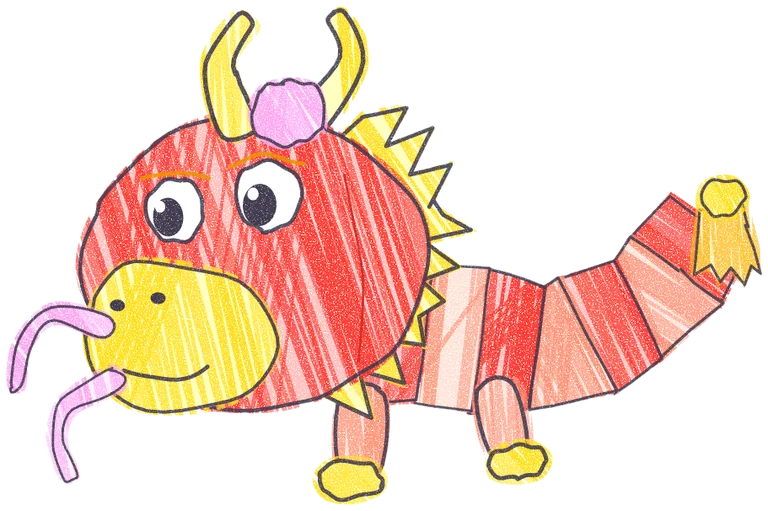
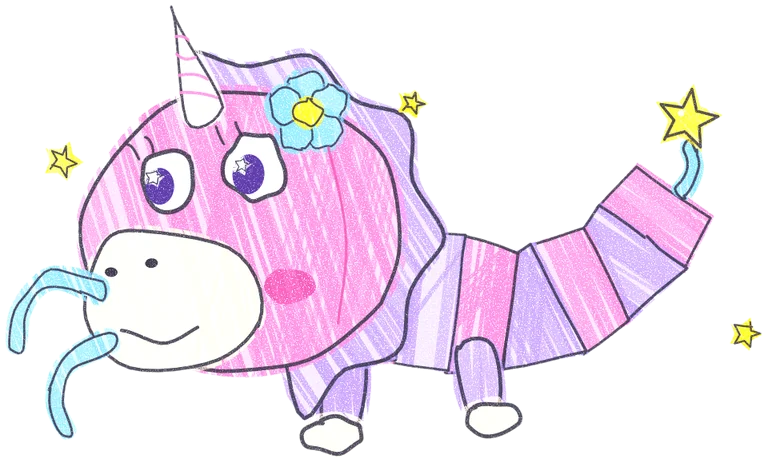
Make the paper dragon a fairy
The owner found the red-and-gold parade dragon not fairy at all, then
butterfly wings too close to the fairy legendary. Its three stages are
now pastel tissue paper with a striped unicorn horn, paper flowers,
stars and a star charm for a tail tip; the final form has a pleated
fan and a crown of flowers.

diff --git a/tools/redraws/festivouivre.ts b/tools/redraws/festivouivre.ts
@@ -1,81 +1,81 @@
 import type { Crayon, P, Redraw } from './crayon.ts';
-import { accordion, tassel } from './plissou.ts';
+import { star } from './lumignon.ts';
+import { accordion, charm, flower, horn } from './plissou.ts';
 
 /** A pleated paper fan opening from (x, y), from angle a0 to a1 (degrees), its folds in turn of colour. */
 function fan(c: Crayon, x: number, y: number, r: number, a0: number, a1: number, cols: string[]) {
-  const n = 7;
+  const n = 9;
   for (let k = 0; k < n; k++) {
     const a = ((a0 + ((a1 - a0) * k) / n) * Math.PI) / 180, b = ((a0 + ((a1 - a0) * (k + 1)) / n) * Math.PI) / 180;
-    const rr = r * (k % 2 ? 0.94 : 1);
+    const rr = r * (k % 2 ? 0.93 : 1);
     c.shape([[x, y], [x + Math.cos(a) * rr, y + Math.sin(a) * rr], [x + Math.cos(b) * rr, y + Math.sin(b) * rr]], cols[k % cols.length], { over: 0 }, { w: 3 }, false);
   }
 }
 
 /**
- * Plisserpent grown into a great parade dragon turned to the left: a long, thick accordion body coiling up, gold
- * scales drawn on its red folds and pompoms all along, four legs with gold claws, a big head with branching gold
- * horns, pleated paper fans opening like frills behind its cheeks, a gold beard, long ribbons streaming, and the
- * dragon's rainbow pearl held in a front claw.
+ * Plisserpent grown into a great fairy parade dragon turned to the left: a long, thick accordion body dancing in
+ * a wave, rainbow pastel folds with sparkles and paper flowers all along, a pleated paper fan opening behind its
+ * head, four legs with cream claws, a big unicorn horn in a crown of flowers, a cream beard, long ribbons streaming,
+ * and the dragon's rainbow pearl held in a front claw.
  */
 export default {
   id: '086', slug: 'festivouivre', seed: 8601, size: [1300, 1150], tilt: -2,
   draw(c) {
     const { shape, stroke, dot, band, potato, spikes } = c;
-    const RED = '#d8352e', GOLD = '#f2c43a', PINK = '#f29ac8', BLUE = '#6fb6ee', GREEN = '#7fcf86', VIOLET = '#b38ae0', DARK = '#9a2a24';
-    const POMS = [PINK, BLUE, GREEN, VIOLET];
+    const PINK = '#f28dc0', LILAC = '#b99be8', SKY = '#8fcdf2', MINT = '#94dcaa', BUTTER = '#f9dc6a', CREAM = '#fff0d2';
+    const STAR = '#f7dc35', DEEP = '#d0619d', LEG = '#a385dc';
     // ribbons streaming behind, from the back of its head
-    shape(band([[560, 260], [680, 160], [820, 180], [940, 90], [1060, 110]], 28, 14), BLUE, { over: 0 }, { w: 3 });
-    shape(band([[560, 320], [700, 250], [840, 290], [980, 230]], 28, 14), PINK, { over: 0 }, { w: 3 });
+    shape(band([[560, 300], [700, 250], [840, 290], [960, 210], [1080, 230]], 28, 14), MINT, { over: 0 }, { w: 3 });
     // the far legs, behind
-    shape(band([[1050, 640], [1030, 820]], 60, 52), DARK, { angle: 90, over: 0 });
-    shape(band([[560, 660], [540, 840]], 60, 52), DARK, { angle: 90, over: 0 });
-    // the long thick body coiling up, tail first: gold scales on the red folds, pompoms along its back
+    shape(band([[1050, 640], [1030, 820]], 60, 52), LEG, { angle: 90, over: 0 });
+    shape(band([[560, 660], [540, 840]], 60, 52), LEG, { angle: 90, over: 0 });
+    // the long thick body dancing in a wave, tail first: rainbow folds, sparkles and stars along it
     const body: P[] = [[1240, 170], [1200, 420], [1090, 600], [960, 560], [860, 400], [740, 380], [640, 500], [540, 600], [460, 520], [440, 420]];
-    accordion(c, body, 17, 120, 220, [RED, GOLD], (k, [x, y], w) => {
-      if (k % 2 === 0) for (const dy of [-w / 5, w / 6]) stroke([[x - 20, y + dy], [x - 6, y + dy + 14], [x + 10, y + dy], [x + 24, y + dy + 14]], { w: 3, col: '#f7dc35' });
-      if (k % 3 === 2) shape(potato(x + 8, y - w / 2 - 8, 28, 25, 9, 0.14), POMS[((k / 3) | 0) % POMS.length], { over: 0 }, { w: 3 });
+    accordion(c, body, 17, 120, 220, [PINK, BUTTER, MINT, SKY, LILAC], (k, [x, y], w) => {
+      if (k % 2 === 0) shape(star(x, y, 12, k * 0.4), '#ffffff', { over: 0, wash: 1 }, { w: 2 }, false);
+      if (k % 3 === 2) flower(c, x + 8, y - w / 2 - 8, 40, [PINK, SKY, MINT, BUTTER][((k / 3) | 0) % 4], k % 2 ? STAR : '#ffffff');
     });
-    tassel(c, 1248, 140, 1.4, GOLD, '#f7a12b');
-    // the near legs, gold claws
+    charm(c, 1240, 170, 1.4, STAR, PINK);
+    // the near legs, cream claws
     for (const [x0, y0, x1, y1] of [[1100, 640, 1120, 860], [610, 640, 620, 870]] as const) {
-      shape(band([[x0, y0], [x1, y1]], 70, 62), RED, { angle: 90, over: 0 });
-      for (const dx of [-30, 0, 30]) shape(band([[x1 + dx, y1 + 10], [x1 + dx - 14, y1 + 46]], 18, 8), GOLD, { over: 0 }, { w: 3 });
+      shape(band([[x0, y0], [x1, y1]], 70, 62), LILAC, { angle: 90, over: 0 });
+      for (const dx of [-30, 0, 30]) shape(band([[x1 + dx, y1 + 10], [x1 + dx - 14, y1 + 46]], 18, 8), CREAM, { over: 0 }, { w: 3 });
     }
-    // the fans opening behind its cheek, and the gold mane
-    shape(spikes([[430, 560], [560, 470], [580, 300], [480, 160]], 3, 50).concat([[380, 300]]), GOLD, { angle: 60, over: 0 }, {}, false);
-    fan(c, 440, 330, 290, -95, 55, [PINK, BLUE, GREEN, VIOLET, '#f7dc35']);
-    // the far horn, branching
-    shape(band([[400, 160], [450, 70], [430, 10]], 36, 18), GOLD, { angle: 90, over: 0 });
-    shape(band([[440, 90], [510, 60]], 22, 14), GOLD, { over: 0 });
+    // a pleated paper fan opening behind its head like a frill, then the scalloped mane
+    fan(c, 400, 330, 330, -115, 35, [PINK, SKY, BUTTER, MINT, LILAC]);
+    const mane: P[] = [];
+    for (let k = 0; k <= 12; k++) { const a = -1.9 + k * 0.28, r = k % 2 ? 205 : 235; mane.push([320 + Math.cos(a) * r, 340 + Math.sin(a) * r]); }
+    shape([...mane, [320, 340]], LILAC, { angle: 60, over: 0 });
     // the far front leg holding up the rainbow pearl
-    shape(band([[460, 600], [330, 640], [250, 600]], 66, 56), RED, { angle: 30, over: 0 });
+    shape(band([[460, 600], [330, 640], [250, 600]], 66, 56), LILAC, { angle: 30, over: 0 });
     shape(potato(200, 590, 70, 70, 12, 0.03), PINK, { angle: 60, over: 0 }, { w: 4 });
-    c.tint(potato(180, 570, 40, 36, 8, 0.1), BLUE, { gap: 3.2 });
-    c.tint(potato(225, 615, 32, 28, 8, 0.1), '#f7dc35', { gap: 3.2 });
+    c.tint(potato(180, 570, 40, 36, 8, 0.1), SKY, { gap: 3.2 });
+    c.tint(potato(225, 615, 32, 28, 8, 0.1), BUTTER, { gap: 3.2 });
     dot(175, 560, 10, 12, '#ffffff');
-    for (const dx of [-36, -6, 24]) shape(band([[250 + dx, 640], [240 + dx, 670]], 18, 8), GOLD, { over: 0 }, { w: 3 });
-    // the big head: long snout, gold muzzle, a gold beard
-    shape([[90, 330], [150, 230], [290, 170], [440, 180], [520, 270], [510, 400], [420, 460], [270, 480], [130, 450], [70, 390]], RED, { angle: 75, over: 0.55, press: 1.05 });
-    shape(spikes([[300, 470], [210, 480], [130, 460]], 3, 50).concat([[220, 440]]), GOLD, { angle: 90, over: 0 }, {}, false);
-    shape([[60, 350], [130, 300], [290, 330], [320, 410], [250, 470], [120, 460], [60, 410]], GOLD, { angle: 80, over: 0.2 }, { w: 4 });
-    dot(90, 350, 10, 8);
-    dot(138, 336, 10, 8);
+    for (const dx of [-36, -6, 24]) shape(band([[250 + dx, 640], [240 + dx, 670]], 18, 8), CREAM, { over: 0 }, { w: 3 });
+    // the big head: long snout, cream muzzle and a soft cream beard, a rosy cheek
+    shape([[90, 330], [150, 230], [290, 170], [440, 180], [520, 270], [510, 400], [420, 460], [270, 480], [130, 450], [70, 390]], PINK, { angle: 75, over: 0.55, press: 1.05 });
+    shape(spikes([[300, 470], [210, 480], [130, 460]], 3, 50).concat([[220, 440]]), CREAM, { angle: 90, over: 0 }, {}, false);
+    shape([[60, 350], [130, 300], [290, 330], [320, 410], [250, 470], [120, 460], [60, 410]], CREAM, { angle: 80, over: 0.2 }, { w: 4 });
+    c.tint(potato(420, 400, 36, 24, 8, 0.1), DEEP, { gap: 3 });
+    dot(90, 350, 9, 7);
+    dot(138, 336, 9, 7);
     stroke([[100, 420], [170, 438], [240, 420], [270, 400]], { w: 5 });
-    c.paper([[150, 432], [160, 455], [172, 434]], { w: 3 }, false);
-    // the near horn, branching like antlers
-    shape(band([[330, 190], [320, 90], [370, 20], [420, 10]], 44, 20), GOLD, { angle: 90, over: 0 });
-    shape(band([[322, 110], [250, 60], [230, 10]], 28, 14), GOLD, { over: 0 });
-    // fierce eyes under heavy gold brows
+    // a big unicorn horn, and a crown of paper flowers round it
+    horn(c, [250, 200], [215, 20], 66, '#fff6e6', PINK);
+    for (const [x, y, r, col] of [[320, 190, 50, SKY], [400, 200, 46, BUTTER], [470, 240, 42, MINT], [180, 215, 40, LILAC]] as const) flower(c, x, y, r, col, STAR);
+    // starry eyes, lashes, sure of itself
     c.paper(potato(230, 270, 30, 26, 8, 0.05));
     c.paper(potato(345, 260, 34, 30, 8, 0.05));
-    dot(222, 276, 15, 16);
-    dot(337, 267, 17, 18);
-    dot(216, 268, 5, 5.5, '#ffffff');
-    dot(330, 258, 5.5, 6, '#ffffff');
-    shape(band([[185, 240], [240, 236], [285, 250]], 22, 12), GOLD, { over: 0 }, { w: 3 });
-    shape(band([[300, 228], [355, 218], [405, 236]], 24, 12), GOLD, { over: 0 }, { w: 3 });
+    dot(222, 276, 15, 16, '#5a3f8a');
+    dot(337, 267, 17, 18, '#5a3f8a');
+    shape(star(216, 268, 8, 0.3), '#ffffff', { over: 0, wash: 1 }, { w: 1.5 }, false);
+    shape(star(330, 258, 9, 0.3), '#ffffff', { over: 0, wash: 1 }, { w: 1.5 }, false);
+    for (const [x0, y0, x1, y1] of [[200, 250, 186, 232], [218, 245, 212, 226], [318, 236, 306, 216], [340, 231, 336, 210]] as const) stroke([[x0, y0], [x1, y1]], { w: 3.5 });
     // long whiskers, ribbons floating down
-    shape(band([[90, 400], [40, 460], [30, 560], [70, 640]], 24, 12), PINK, { over: 0 }, { w: 3 });
-    stroke([[480, 220], [500, 330], [480, 430]], { w: 3, col: DARK });
+    shape(band([[90, 400], [40, 460], [30, 560], [70, 640]], 24, 12), SKY, { over: 0 }, { w: 3 });
+    stroke([[480, 220], [500, 330], [480, 430]], { w: 3, col: DEEP });
+    // sparkles round it
+    for (const [x, y, r] of [[60, 200, 22], [140, 760, 18], [1180, 700, 20], [880, 120, 18]] as const) shape(star(x, y, r, 0.4), STAR, { over: 0 }, { w: 2.5 }, false);
   },
 } satisfies Redraw;

diff --git a/tools/redraws/plissou.ts b/tools/redraws/plissou.ts
@@ -1,4 +1,5 @@
 import type { Crayon, P, Redraw } from './crayon.ts';
+import { star } from './lumignon.ts';
 
 /** Stations evenly spaced along a polyline, with their normal. */
 function stations(path: P[], n: number): { p: P; nx: number; ny: number }[] {
@@ -35,56 +36,80 @@ export function accordion(c: Crayon, path: P[], n: number, w0: number, w1: numbe
   for (const f of after) f();
 }
 
-/** A tassel: a gold knot and a fringe of threads hanging from (x, y). */
-export function tassel(c: Crayon, x: number, y: number, s: number, col: string, thread: string) {
-  const fringe: P[] = [[x - 26 * s, y + 10 * s], [x - 40 * s, y + 90 * s], [x - 20 * s, y + 80 * s], [x - 10 * s, y + 100 * s], [x + 4 * s, y + 82 * s], [x + 20 * s, y + 102 * s], [x + 30 * s, y + 80 * s], [x + 42 * s, y + 92 * s], [x + 26 * s, y + 10 * s]];
-  c.shape(fringe, thread, { angle: 90, over: 0 }, { w: 3 }, false);
-  c.shape(c.potato(x, y, 26 * s, 22 * s, 8, 0.05), col, { over: 0 }, { w: 3.5 });
+/** A star charm hanging from a ribbon at the tip of the tail. */
+export function charm(c: Crayon, x: number, y: number, s: number, col: string, ribbon: string) {
+  c.shape(c.band([[x, y], [x + 18 * s, y - 30 * s], [x + 10 * s, y - 60 * s]], 14 * s, 10 * s), ribbon, { over: 0 }, { w: 3 });
+  c.shape(star(x + 12 * s, y - 92 * s, 40 * s, 0.25), col, { over: 0, press: 1.1 }, { w: 3.5 }, false);
+  c.dot(x + 4 * s, y - 100 * s, 4 * s, 4 * s, '#ffffff');
+}
+
+/** A unicorn's spiral horn from `base` to `tip`, striped like a candy stick. */
+export function horn(c: Crayon, base: P, tip: P, w: number, col: string, stripe: string) {
+  c.shape(c.band([base, tip], w, 6), col, { angle: 60, over: 0 }, { w: 3.5 });
+  const n = 4;
+  for (let k = 1; k <= n; k++) {
+    const t = k / (n + 1), ww = (w * (1 - t) + 6 * t) / 2;
+    const cx = base[0] + (tip[0] - base[0]) * t, cy = base[1] + (tip[1] - base[1]) * t;
+    const dx = tip[0] - base[0], dy = tip[1] - base[1], l = Math.hypot(dx, dy), ux = dx / l, uy = dy / l;
+    c.stroke([[cx - uy * ww - ux * ww * 0.5, cy + ux * ww - uy * ww * 0.5], [cx + uy * ww + ux * ww * 0.5, cy - ux * ww + uy * ww * 0.5]], { w: 4, col: stripe });
+  }
+}
+
+/** A little paper flower: five round petals and a heart. */
+export function flower(c: Crayon, x: number, y: number, r: number, petal: string, heart: string) {
+  for (let k = 0; k < 5; k++) {
+    const a = (k / 5) * Math.PI * 2 - Math.PI / 2;
+    c.shape(c.potato(x + Math.cos(a) * r * 0.62, y + Math.sin(a) * r * 0.62, r * 0.48, r * 0.48, 7, 0.06), petal, { over: 0 }, { w: 2.5 });
+  }
+  c.shape(c.potato(x, y, r * 0.36, r * 0.36, 7, 0.05), heart, { over: 0 }, { w: 2.5 });
 }
 
 /**
- * A baby paper dragon turned to the left, like the ones children fold for a parade: a big round red head with a
- * gold muzzle, two little rolled-paper horns and a pink pompom, a short accordion body of a few folds and a gold
- * tassel for a tail.
+ * A baby fairy dragon folded out of pastel tissue paper, turned to the left: a big round pink head with a cream
+ * muzzle, a little striped unicorn horn, a paper flower by its ear, a soft scalloped mane, big starry eyes, a short
+ * accordion body of pink and lilac folds and a star charm at the end of its tail, like a magic wand.
  */
 export default {
   id: '084', slug: 'plissou', seed: 8401, size: [1000, 880], tilt: -3,
   draw(c) {
     const { shape, stroke, dot, band, potato } = c;
-    const RED = '#e2423a', LIGHT = '#f58a72', GOLD = '#f2c43a', PINK = '#f29ac8';
-    // the tassel tail, then the short accordion body, tail first
-    accordion(c, [[880, 380], [810, 470], [690, 520], [470, 480]], 7, 110, 170, [RED, LIGHT]);
-    tassel(c, 898, 350, 1, GOLD, '#f7a12b');
+    const PINK = '#f28dc0', LILAC = '#b99be8', CREAM = '#fff0d2', SKY = '#8fcdf2', STAR = '#f7dc35', DEEP = '#d0619d';
+    // the short accordion body, tail first, and the star charm at the tip of its tail
+    accordion(c, [[880, 380], [810, 470], [690, 520], [470, 480]], 7, 110, 170, [PINK, LILAC]);
+    charm(c, 890, 380, 1, STAR, SKY);
     // little paws under it
-    shape(band([[620, 560], [630, 640]], 44, 40), LIGHT, { angle: 90, over: 0 });
-    shape(potato(640, 650, 34, 20, 7, 0.06), GOLD, { over: 0 });
-    shape(band([[460, 560], [450, 650]], 48, 44), LIGHT, { angle: 90, over: 0 });
-    shape(potato(440, 660, 38, 22, 7, 0.06), GOLD, { over: 0 });
-    // a ruffled gold mane round the back of its head, and the far horn, behind
-    shape(c.spikes([[420, 560], [530, 470], [550, 340], [480, 230]], 3, 40).concat([[400, 300]]), GOLD, { angle: 60, over: 0 }, {}, false);
-    shape(band([[420, 230], [470, 160], [450, 110]], 34, 22), GOLD, { angle: 90, over: 0 });
-    // the big round head, a gold muzzle
-    shape(potato(340, 400, 200, 175, 12, 0.04), RED, { angle: 75, over: 0.5 });
-    shape([[150, 430], [200, 390], [320, 420], [360, 500], [300, 560], [190, 560], [140, 500]], GOLD, { angle: 80, over: 0.2 }, { w: 4 });
-    dot(175, 440, 9, 7);
-    dot(225, 432, 9, 7);
+    shape(band([[620, 560], [630, 640]], 44, 40), LILAC, { angle: 90, over: 0 });
+    shape(potato(640, 650, 34, 20, 7, 0.06), CREAM, { over: 0 });
+    shape(band([[460, 560], [450, 650]], 48, 44), LILAC, { angle: 90, over: 0 });
+    shape(potato(440, 660, 38, 22, 7, 0.06), CREAM, { over: 0 });
+    // a soft scalloped mane round the back of its head, and the far horn, behind
+    const mane: P[] = [];
+    for (let k = 0; k <= 10; k++) { const a = -1.9 + k * 0.33, r = k % 2 ? 205 : 230; mane.push([360 + Math.cos(a) * r, 400 + Math.sin(a) * r]); }
+    shape([...mane, [360, 400]], LILAC, { angle: 60, over: 0 });
+    // the big round head, a cream muzzle, rosy cheeks
+    shape(potato(340, 400, 200, 175, 12, 0.04), PINK, { angle: 75, over: 0.5 });
+    shape([[150, 430], [200, 390], [320, 420], [360, 500], [300, 560], [190, 560], [140, 500]], CREAM, { angle: 80, over: 0.2 }, { w: 4 });
+    c.tint(potato(395, 470, 34, 22, 8, 0.1), DEEP, { gap: 3 });
+    dot(175, 440, 8, 6);
+    dot(225, 432, 8, 6);
     stroke([[180, 515], [230, 532], [280, 518]], { w: 4.5 });
     // short ribbon whiskers
-    shape(band([[160, 465], [100, 445], [60, 480], [50, 530]], 22, 12), PINK, { over: 0 }, { w: 3 });
-    shape(band([[170, 525], [110, 555], [95, 600], [110, 640]], 22, 12), PINK, { over: 0 }, { w: 3 });
-    // the near horn, a pink pompom on top
-    shape(band([[330, 240], [310, 160], [345, 110]], 38, 24), GOLD, { angle: 90, over: 0 });
-    shape(potato(390, 220, 44, 40, 10, 0.12), PINK, { angle: 60, over: 0.2 }, { w: 3.5 });
-    // big round eyes with gold lids, looking left
+    shape(band([[160, 465], [100, 445], [60, 480], [50, 530]], 22, 12), SKY, { over: 0 }, { w: 3 });
+    shape(band([[170, 525], [110, 555], [95, 600], [110, 640]], 22, 12), SKY, { over: 0 }, { w: 3 });
+    // a little unicorn horn on its brow, a paper flower by its ear
+    horn(c, [300, 250], [270, 130], 46, '#fff6e6', PINK);
+    flower(c, 430, 255, 46, SKY, STAR);
+    // big starry eyes with lashes, looking left
     c.paper(potato(250, 330, 34, 38, 8, 0.05));
     c.paper(potato(360, 320, 38, 42, 8, 0.05));
-    dot(240, 338, 18, 23);
-    dot(350, 329, 20, 25);
-    dot(233, 325, 6, 7, '#ffffff');
-    dot(342, 315, 6.5, 7.5, '#ffffff');
-    stroke([[212, 292], [255, 284], [290, 296]], { w: 5, col: '#c48a1a' });
-    stroke([[318, 280], [362, 270], [402, 285]], { w: 5, col: '#c48a1a' });
+    dot(240, 338, 18, 23, '#5a3f8a');
+    dot(350, 329, 20, 25, '#5a3f8a');
+    shape(star(233, 326, 9, 0.3), '#ffffff', { over: 0, wash: 1 }, { w: 1.5 }, false);
+    shape(star(342, 316, 10, 0.3), '#ffffff', { over: 0, wash: 1 }, { w: 1.5 }, false);
+    for (const [x0, y0, x1, y1] of [[215, 300, 200, 282], [232, 293, 226, 274], [325, 288, 312, 268], [345, 281, 341, 260]] as const) stroke([[x0, y0], [x1, y1]], { w: 3.5 });
     // folds drawn on the head too: it's paper
-    stroke([[450, 300], [470, 420], [455, 520]], { w: 3, col: '#a8302a' });
+    stroke([[450, 300], [470, 420], [455, 520]], { w: 3, col: DEEP });
+    // a few sparkles round it
+    for (const [x, y, r] of [[120, 300, 20], [560, 250, 16], [960, 560, 18]] as const) shape(star(x, y, r, 0.4), STAR, { over: 0 }, { w: 2.5 }, false);
   },
 } satisfies Redraw;

diff --git a/tools/redraws/plisserpent.ts b/tools/redraws/plisserpent.ts
@@ -1,54 +1,59 @@
 import type { P, Redraw } from './crayon.ts';
-import { accordion, tassel } from './plissou.ts';
+import { star } from './lumignon.ts';
+import { accordion, charm, flower, horn } from './plissou.ts';
 
 /**
- * Plissou grown long: a paper dragon turned to the left, its accordion body curving in an S, red and gold folds
- * with pompoms along its back, two pairs of little legs, a longer head held high with curling gold horns, a gold
- * mane and long ribbon whiskers floating round it.
+ * Plissou grown long: a fairy paper dragon turned to the left, its accordion body curving in an S, pink, lilac and
+ * sky-blue folds with paper flowers and little stars along its back, two pairs of little legs, a longer head held
+ * high with a striped unicorn horn, a flower by its ear, a scalloped mane and long ribbon whiskers floating round it.
  */
 export default {
   id: '085', slug: 'plisserpent', seed: 8501, size: [1200, 1000], tilt: -2,
   draw(c) {
-    const { shape, stroke, dot, band, potato, spikes } = c;
-    const RED = '#e2423a', GOLD = '#f2c43a', PINK = '#f29ac8', BLUE = '#6fb6ee', DARK = '#a8302a';
-    const POMS = [PINK, BLUE, '#f7dc35'];
+    const { shape, stroke, dot, band, potato } = c;
+    const PINK = '#f28dc0', LILAC = '#b99be8', SKY = '#8fcdf2', CREAM = '#fff0d2', STAR = '#f7dc35', DEEP = '#d0619d';
     // the far legs, behind the body
-    shape(band([[880, 640], [900, 760]], 46, 40), DARK, { angle: 90, over: 0 });
-    shape(band([[560, 600], [560, 720]], 46, 40), DARK, { angle: 90, over: 0 });
-    // the long S of folds, tail first, pompoms along its back
+    shape(band([[880, 640], [900, 760]], 46, 40), '#a98fd8', { angle: 90, over: 0 });
+    shape(band([[560, 600], [560, 720]], 46, 40), '#a98fd8', { angle: 90, over: 0 });
+    // the long S of folds, tail first, little stars along its back, a star charm at its tail
     const body: P[] = [[1120, 300], [1090, 470], [960, 610], [770, 650], [610, 590], [510, 470], [440, 380]];
-    accordion(c, body, 12, 110, 170, [RED, GOLD], (k, [x, y], w) => {
-      if (k % 3 === 1) shape(potato(x + 6, y - w / 2 - 6, 24, 22, 9, 0.14), POMS[((k / 3) | 0) % 3], { over: 0 }, { w: 3 });
+    accordion(c, body, 12, 110, 170, [PINK, LILAC, SKY], (k, [x, y], w) => {
+      if (k % 3 === 1) flower(c, x + 6, y - w / 2 - 6, 34, [PINK, SKY, LILAC][((k / 3) | 0) % 3] === PINK ? SKY : PINK, STAR);
+      if (k % 3 === 2) shape(star(x + 4, y - w / 2 - 10, 20, k * 0.3), STAR, { over: 0 }, { w: 2.5 }, false);
     });
-    tassel(c, 1130, 270, 1.15, GOLD, '#f7a12b');
-    // the near legs, gold claws
+    charm(c, 1120, 300, 1.15, STAR, PINK);
+    // the near legs, cream paws
     for (const [x0, y0, x1, y1] of [[930, 650, 950, 780], [620, 610, 610, 740]] as const) {
-      shape(band([[x0, y0], [x1, y1]], 52, 46), RED, { angle: 90, over: 0 });
-      shape(potato(x1 - 6, y1 + 12, 40, 22, 7, 0.06), GOLD, { over: 0 });
+      shape(band([[x0, y0], [x1, y1]], 52, 46), LILAC, { angle: 90, over: 0 });
+      shape(potato(x1 - 6, y1 + 12, 40, 22, 7, 0.06), CREAM, { over: 0 });
     }
-    // the gold mane and the far horn, behind the head
-    shape(spikes([[440, 470], [540, 380], [540, 240], [450, 150]], 3, 46).concat([[380, 260]]), GOLD, { angle: 60, over: 0 }, {}, false);
-    shape(band([[400, 170], [460, 90], [430, 30], [480, 10]], 34, 18), GOLD, { angle: 90, over: 0 });
+    // the scalloped mane and the far horn, behind the head
+    const mane: P[] = [];
+    for (let k = 0; k <= 10; k++) { const a = -1.8 + k * 0.32, r = k % 2 ? 215 : 245; mane.push([330 + Math.cos(a) * r, 330 + Math.sin(a) * r]); }
+    shape([...mane, [330, 330]], LILAC, { angle: 60, over: 0 });
     // long ribbon whiskers floating behind and round
-    shape(band([[150, 360], [80, 330], [40, 380], [60, 450], [30, 520]], 24, 12), PINK, { over: 0 }, { w: 3 });
-    // the head held high: longer snout, gold muzzle
-    shape([[110, 340], [160, 260], [280, 200], [420, 200], [490, 280], [480, 400], [400, 450], [260, 460], [140, 430], [90, 390]], RED, { angle: 75, over: 0.5 });
-    shape([[80, 360], [140, 320], [280, 350], [310, 420], [250, 470], [130, 460], [80, 420]], GOLD, { angle: 80, over: 0.2 }, { w: 4 });
-    dot(108, 365, 9, 7);
-    dot(150, 352, 9, 7);
+    shape(band([[150, 360], [80, 330], [40, 380], [60, 450], [30, 520]], 24, 12), SKY, { over: 0 }, { w: 3 });
+    // the head held high: longer snout, cream muzzle, rosy cheek
+    shape([[110, 340], [160, 260], [280, 200], [420, 200], [490, 280], [480, 400], [400, 450], [260, 460], [140, 430], [90, 390]], PINK, { angle: 75, over: 0.5 });
+    shape([[80, 360], [140, 320], [280, 350], [310, 420], [250, 470], [130, 460], [80, 420]], CREAM, { angle: 80, over: 0.2 }, { w: 4 });
+    c.tint(potato(390, 400, 34, 22, 8, 0.1), DEEP, { gap: 3 });
+    dot(108, 365, 8, 6);
+    dot(150, 352, 8, 6);
     stroke([[120, 430], [180, 445], [240, 428]], { w: 4.5 });
-    shape(band([[120, 420], [60, 450], [40, 520], [80, 580], [60, 640]], 24, 12), BLUE, { over: 0 }, { w: 3 });
-    // the near horn curling back
-    shape(band([[320, 210], [320, 120], [380, 70], [430, 90]], 40, 20), GOLD, { angle: 90, over: 0 });
-    // keen eyes with gold lids
+    shape(band([[120, 420], [60, 450], [40, 520], [80, 580], [60, 640]], 24, 12), PINK, { over: 0 }, { w: 3 });
+    // a longer unicorn horn on its brow, a paper flower by its ear
+    horn(c, [270, 215], [235, 60], 56, '#fff6e6', PINK);
+    flower(c, 420, 205, 52, SKY, STAR);
+    // starry eyes with lashes
     c.paper(potato(240, 285, 30, 30, 8, 0.05));
     c.paper(potato(345, 275, 34, 34, 8, 0.05));
-    dot(232, 292, 15, 18);
-    dot(337, 283, 17, 20);
-    dot(226, 282, 5, 6, '#ffffff');
-    dot(330, 272, 6, 7, '#ffffff');
-    stroke([[200, 250], [245, 244], [282, 258]], { w: 6, col: '#c48a1a' });
-    stroke([[305, 240], [350, 230], [392, 246]], { w: 6, col: '#c48a1a' });
-    stroke([[430, 240], [450, 330], [430, 420]], { w: 3, col: DARK });
+    dot(232, 292, 15, 18, '#5a3f8a');
+    dot(337, 283, 17, 20, '#5a3f8a');
+    shape(star(226, 283, 8, 0.3), '#ffffff', { over: 0, wash: 1 }, { w: 1.5 }, false);
+    shape(star(330, 273, 9, 0.3), '#ffffff', { over: 0, wash: 1 }, { w: 1.5 }, false);
+    for (const [x0, y0, x1, y1] of [[212, 262, 198, 246], [228, 256, 222, 238], [318, 248, 306, 230], [338, 242, 334, 222]] as const) stroke([[x0, y0], [x1, y1]], { w: 3.5 });
+    stroke([[430, 240], [450, 330], [430, 420]], { w: 3, col: DEEP });
+    // sparkles round it
+    for (const [x, y, r] of [[80, 220, 20], [560, 140, 18], [1150, 560, 18], [300, 760, 16]] as const) shape(star(x, y, r, 0.4), STAR, { over: 0 }, { w: 2.5 }, false);
   },
 } satisfies Redraw;

diff --git a/src/data/creatures.ts b/src/data/creatures.ts
@@ -1142,8 +1142,8 @@ export const CREATURES: SpeciesDef[] = [
     learnset: [[1, 'bousculade'], [1, 'grondement'], [5, 'micro-magique'], [9, 'souffle-dragon'], [13, 'pirouette'], [19, 'griffe-dragon'],
       [23, 'calin-lunaire'], [27, 'coup-de-boule'], [29, 'grand-defile']],
     dex: L(
-      'Un petit dragon plié dans une feuille de papier rouge. Il ne sort que les jours de fête et remue ses plis comme un accordéon.',
-      'A little dragon folded from a sheet of red paper. It only comes out on festival days, wiggling its folds like an accordion.',
+      'Un petit dragon plié dans du papier de soie rose. Sa petite corne de licorne fait pousser des fleurs en papier partout où il passe.',
+      'A little dragon folded from pink tissue paper. Its little unicorn horn makes paper flowers grow wherever it goes.',
     ),
   },
   {
@@ -1155,8 +1155,8 @@ export const CREATURES: SpeciesDef[] = [
     learnset: [[0, 'grand-defile'], [1, 'bousculade'], [1, 'grondement'], [5, 'micro-magique'], [9, 'souffle-dragon'], [13, 'pirouette'],
       [19, 'griffe-dragon'], [23, 'calin-lunaire'], [27, 'coup-de-boule'], [35, 'queue-ardente'], [40, 'colere-dragon']],
     dex: L(
-      'Il ondule dans les airs en dépliant son long corps. Chaque fois qu’il grandit, il ajoute un pli.',
-      'It ripples through the air, unfolding its long body. Every time it grows, it adds another fold.',
+      'Il ondule dans les airs en dépliant son long corps. Chaque fois qu’il grandit, il ajoute un pli… et une fleur.',
+      'It ripples through the air, unfolding its long body. Every time it grows, it adds another fold… and a flower.',
     ),
   },
   {

diff --git a/docs/story.md b/docs/story.md
@@ -510,7 +510,9 @@ a broccoli line (replaced by the stapler crocodile) and asked for the mammoth to
   Allumbattant on Route 9. Juggler Paco (a fourth Bestiole), Hector, Grand Master Ambre (in place of Canarmure).
 - Lumignon → Projétoile (Electric/Psychic, L26): a bedroom night-light, then a star projector. Route 3 and
   Route 4 at night; Projétoile on Route 8 at night. Kid Lise, Medium Opale.
-- Plissou → Plisserpent → Festivouivre (Dragon/Fairy, L30/L44, rare): a folded-paper parade dragon. Route 7
+- Plissou → Plisserpent → Festivouivre (Dragon/Fairy, L30/L44, rare): a fairy parade dragon of folded tissue
+  paper, with a unicorn horn and paper flowers (the owner found the first red-and-gold version not fairy enough,
+  then butterfly wings too close to Libellune). Route 7
   (rare); Plisserpent in the Sketch Forest (rare). Sparkler Mia, Sleepwalker Gaston, Grand Master Célestine.
 - Globargot (Ice/Psychic, rare): a snail with a snow globe for a shell (a tiny house inside: a dream clue).
   Lighthouse island; Dreamer Mila.
